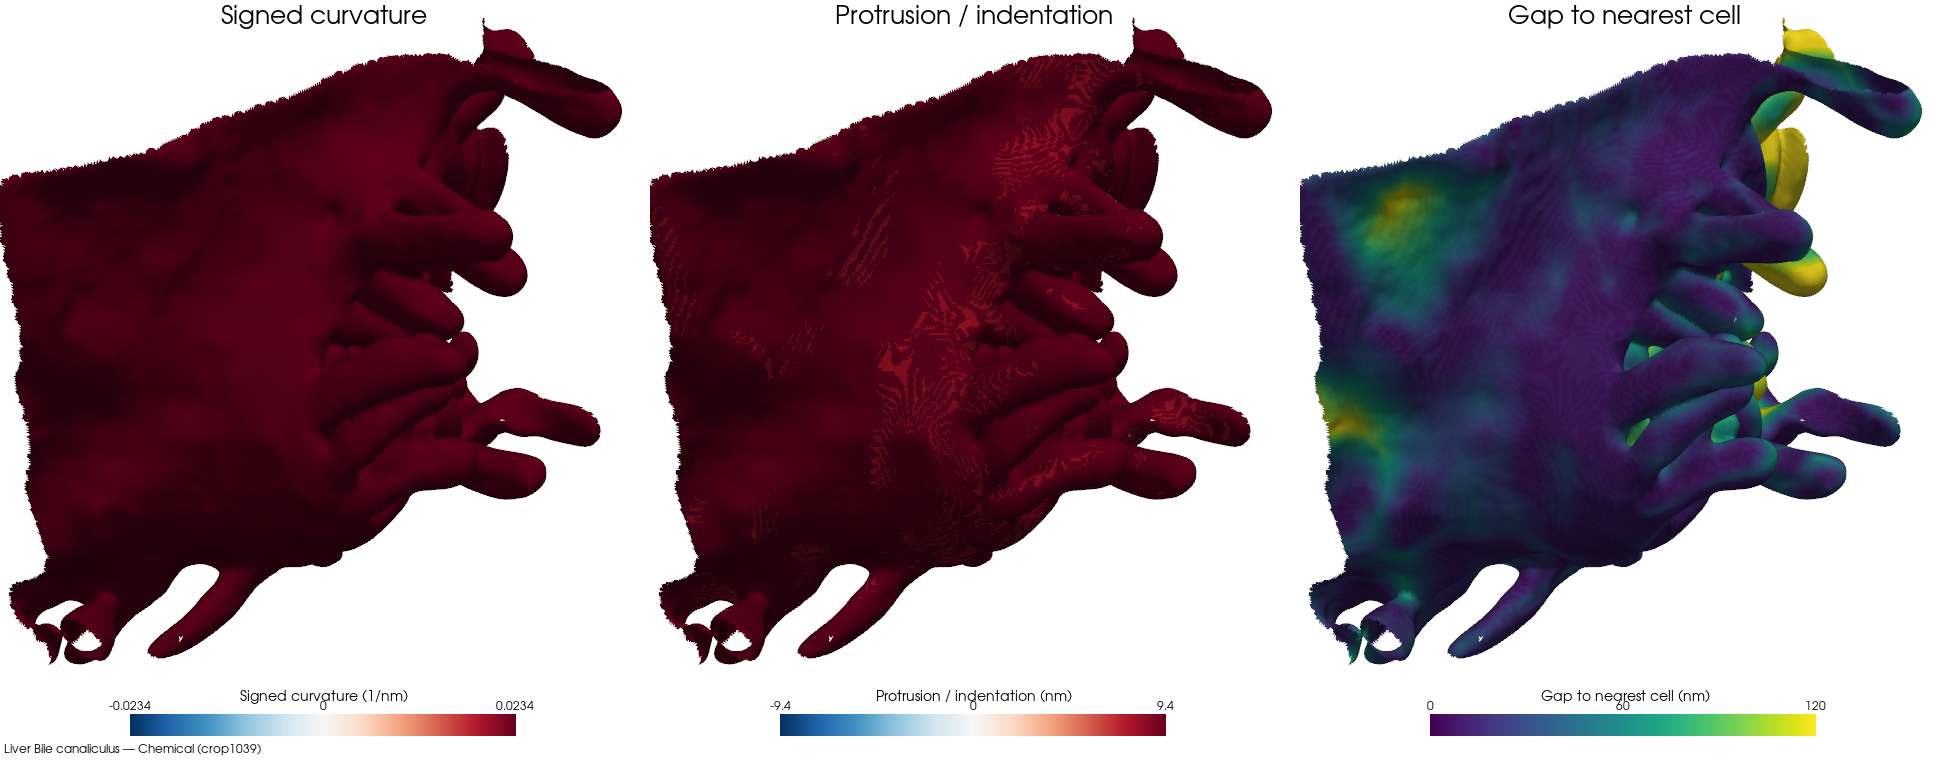
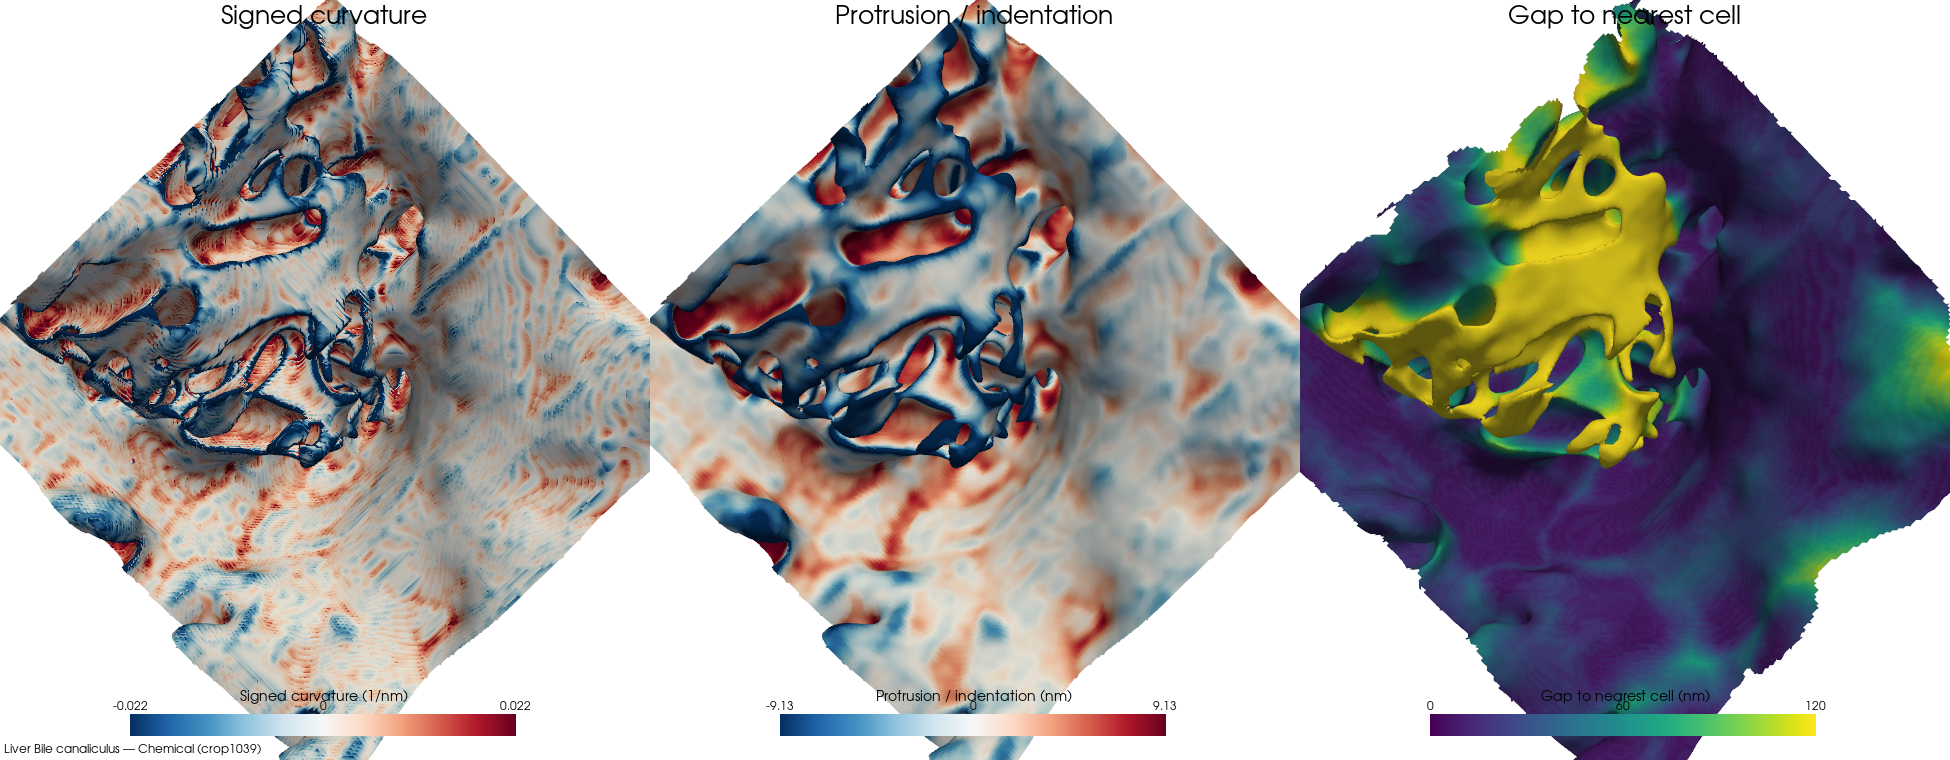
3D renders: auto-orient cameras to best display features
The example 3D renders used a generic isometric / fixed (elev=18, azim=-60)
camera, so patches could show edge-on (e.g. crop1072 membrane was a thin
sliver) and the cell surface read as a featureless box.

- ecs/geometry.py: add pca_axes / pca_view_init / pca_camera helpers that
  derive a camera facing the broad PCA plane of a vertex cloud.
- render_membrane_patch.py: replace view_isometric() with a face-on camera
  (look down the patch normal) so the curvature/protrusion/gap maps read flat.
- render_cell_surface.py, render_ecs_3d.py: replace the fixed view_init with a
  PCA-based 3/4 view that maximizes the projected footprint.
- Re-render the four gallery examples (crop1039/crop1072) with the new views.

diff --git a/ecs/geometry.py b/ecs/geometry.py
@@ -510,3 +510,42 @@ def sphere_sign_check(radius_nm: float = 400.0,
         "measured_radius_nm": measured_R,
         "convex_positive": med > 0,
     }
+
+
+# ---------- camera orientation helpers (for 3D renders) ----------
+
+def pca_axes(verts: np.ndarray) -> tuple[np.ndarray, np.ndarray, np.ndarray]:
+    """Return (major, mid, minor) principal axes of a vertex cloud, ordered by
+    descending spread. `minor` is the surface-normal direction for a roughly
+    planar patch; the (major, mid) plane is the broad face."""
+    c = np.asarray(verts, float)
+    c = c - c.mean(0)
+    _, vecs = np.linalg.eigh(np.cov(c.T))   # columns ascending eigenvalue
+    minor, mid, major = vecs[:, 0], vecs[:, 1], vecs[:, 2]
+    return major, mid, minor
+
+
+def pca_view_init(verts: np.ndarray, tilt_deg: float = 22.0) -> tuple[float, float]:
+    """matplotlib (elev, azim) that faces the broad PCA plane with a slight tilt
+    so closed 3D shapes still read with depth. Picks the view that maximizes the
+    projected footprint, then tilts `tilt_deg` toward the mid axis."""
+    _, mid, minor = pca_axes(verts)
+    t = np.radians(tilt_deg)
+    d = minor * np.cos(t) + mid * np.sin(t)   # view direction
+    if d[2] < 0:
+        d = -d
+    d = d / (np.linalg.norm(d) + 1e-12)
+    elev = float(np.degrees(np.arcsin(np.clip(d[2], -1.0, 1.0))))
+    azim = float(np.degrees(np.arctan2(d[1], d[0])))
+    return elev, azim
+
+
+def pca_camera(verts: np.ndarray, dist_mult: float = 2.4) -> list:
+    """pyvista camera_position [position, focal_point, up] viewing a patch
+    face-on (camera along the minor/normal axis, longest axis vertical)."""
+    major, _, minor = pca_axes(verts)
+    v = np.asarray(verts, float)
+    centroid = v.mean(0)
+    ext = float(np.ptp(v, axis=0).max())
+    pos = centroid + minor * ext * dist_mult
+    return [tuple(pos), tuple(centroid), tuple(major)]

diff --git a/scripts/render_membrane_patch.py b/scripts/render_membrane_patch.py
@@ -32,7 +32,7 @@ from scipy.ndimage import distance_transform_edt
 
 from ecs import config as cfg
 from ecs import io
-from ecs.geometry import (CellMesh, classify_ecs_facing_vertices,
+from ecs.geometry import (CellMesh, classify_ecs_facing_vertices, pca_camera,
                           count_cell_boundary_faces, signed_mean_curvature,
                           smoothed_surface_deviation)
 
@@ -409,7 +409,10 @@ def render_membrane(crop, out_path: Path, cell: int | None = None,
                                          position_x=0.2, position_y=0.03))
         pl.add_text(name.split(" (")[0], font_size=11, position="upper_edge")
     pl.link_views()
-    pl.view_isometric()
+    # Face-on to the patch: look straight down its surface normal (PCA minor
+    # axis) so the scalar maps read as flat maps rather than edge-on slivers.
+    pl.camera_position = pca_camera(p["Vp"])
+    pl.reset_camera()
     pl.camera.zoom(1.4)
     pl.subplot(0, 0)
     pl.add_text(f"{crop.tissue} {crop.region_group} — {crop.prep} ({crop.crop})",

diff --git a/scripts/render_cell_surface.py b/scripts/render_cell_surface.py
@@ -34,7 +34,7 @@ from scipy.ndimage import find_objects
 
 from ecs import config as cfg
 from ecs import io
-from ecs.geometry import (CellMesh, classify_ecs_facing_vertices,
+from ecs.geometry import (CellMesh, classify_ecs_facing_vertices, pca_view_init,
                           count_cell_boundary_faces, signed_mean_curvature,
                           smoothed_surface_deviation)
 
@@ -168,7 +168,9 @@ def main() -> None:
         tri.set_facecolors(fc)
         for sl, m in zip((ax.set_xlim, ax.set_ylim, ax.set_zlim), mid):
             sl(m - ext / 2, m + ext / 2)
-        ax.set_axis_off(); ax.view_init(elev=18, azim=-60)
+        ax.set_axis_off()
+        _elev, _azim = pca_view_init(V)
+        ax.view_init(elev=_elev, azim=_azim)
         ax.set_title(title, fontsize=10)
         m = cm.ScalarMappable(norm=norm, cmap=cmap); m.set_array([])
         cb = fig.colorbar(m, ax=ax, fraction=0.03, pad=0.02)

diff --git a/scripts/render_ecs_3d.py b/scripts/render_ecs_3d.py
@@ -27,6 +27,7 @@ import matplotlib.pyplot as plt
 import numpy as np
 
 from ecs import config as cfg
+from ecs.geometry import pca_view_init
 from ecs import io
 from ecs.geometry import CellMesh
 
@@ -124,7 +125,8 @@ def main() -> None:
         ax.set_title(f"{crop.tissue} {crop.region_group}\n{crop.prep} ({crop.crop})\n"
                      f"ECS frac {frac:.3f}", fontsize=10)
         ax.set_axis_off()
-        ax.view_init(elev=18, azim=-60)
+        elev, azim = pca_view_init(v)
+        ax.view_init(elev=elev, azim=azim)
 
     fig.suptitle("Extracellular space — 3D (volume-matched)", fontsize=13, y=0.99)
     fig.tight_layout()
